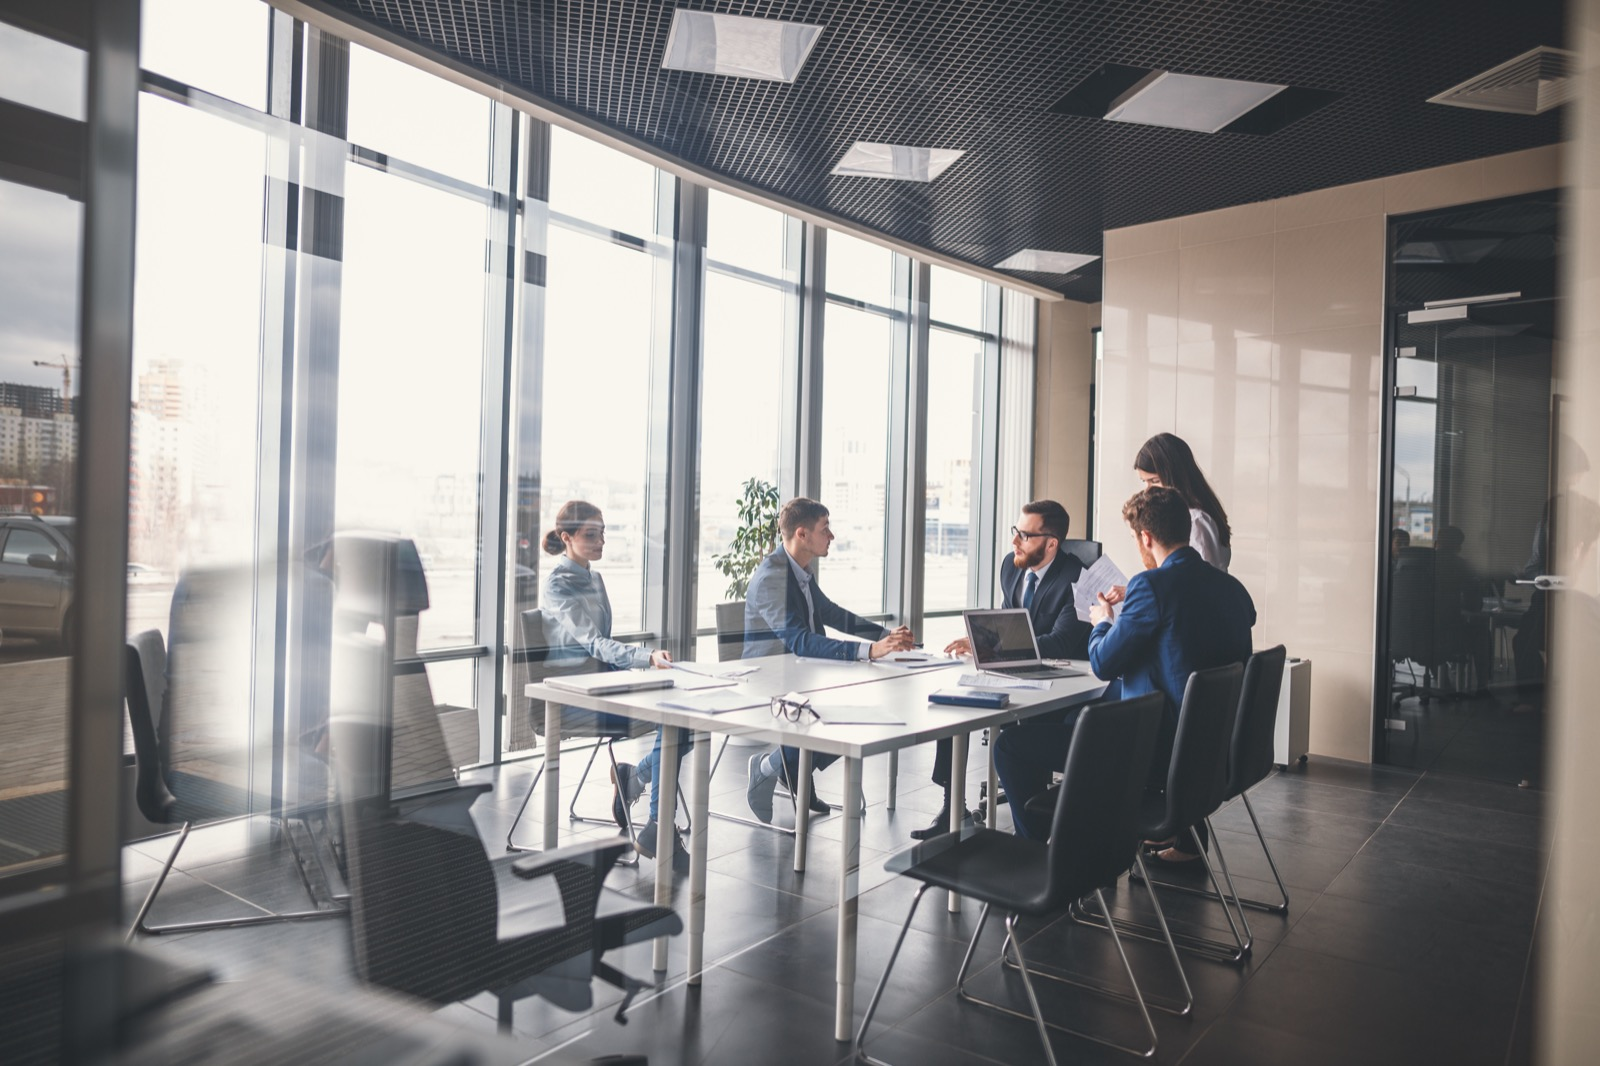
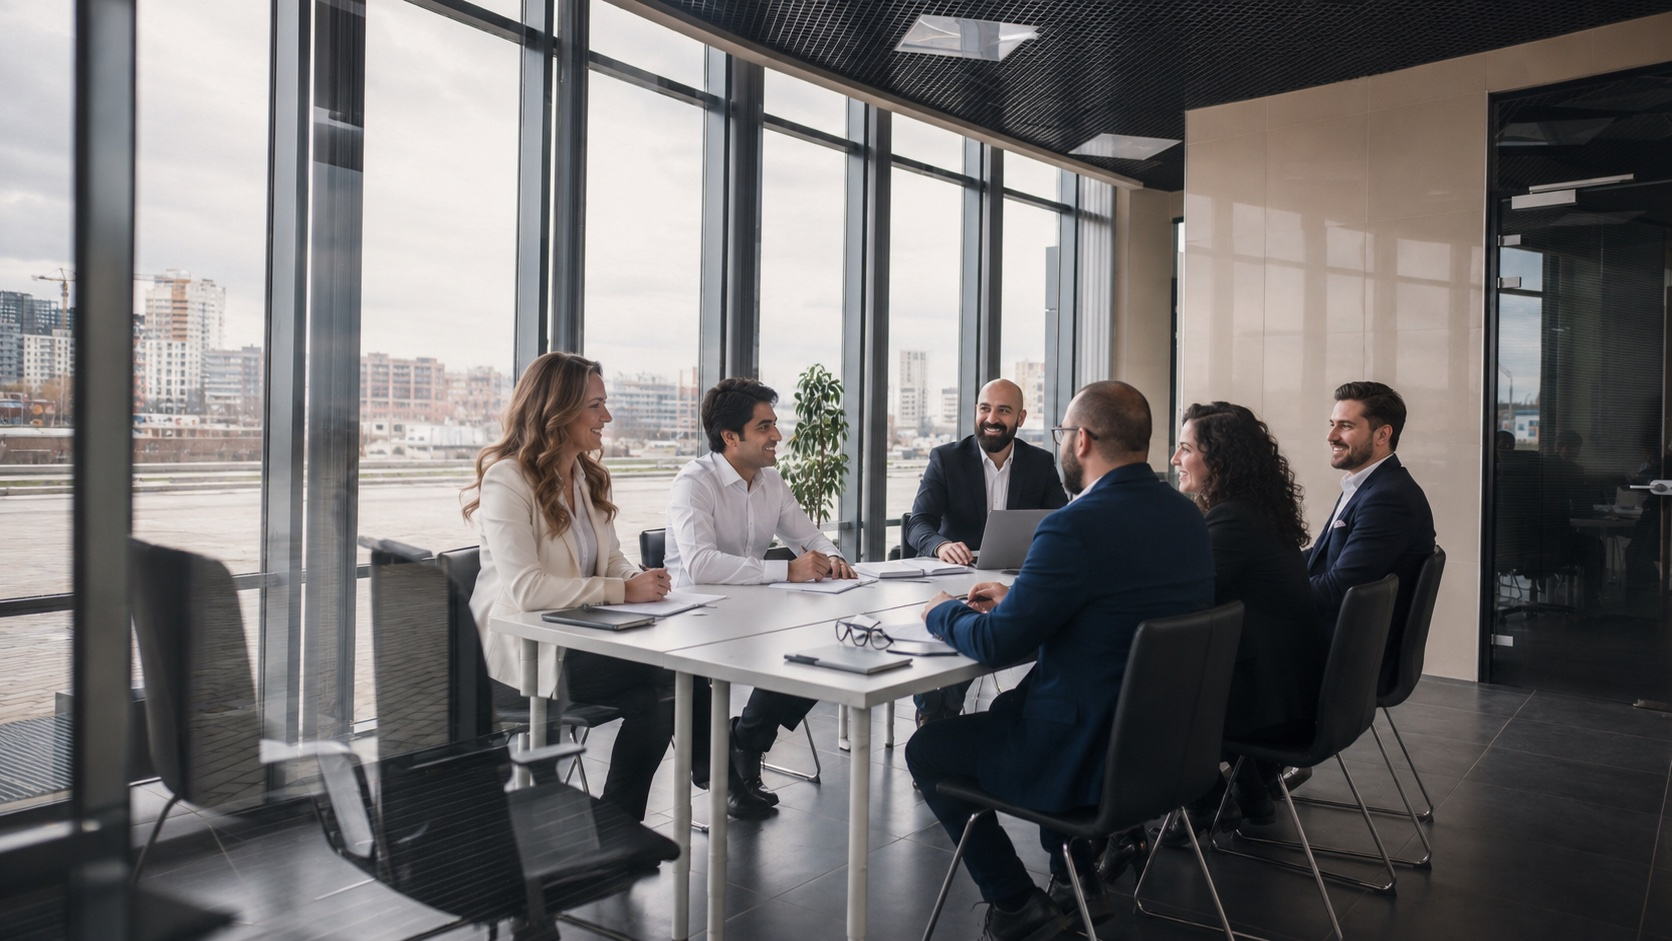
Redesign team section: Meet the Team heading, 3x2 grid, larger photos; new group photo

diff --git a/src/components/sections/About.tsx b/src/components/sections/About.tsx
@@ -2,7 +2,7 @@ import Container from '../ui/Container';
 import SectionHeading from '../ui/SectionHeading';
 import GradientText from '../ui/GradientText';
 import ScrollReveal from '../ui/ScrollReveal';
-import { ABOUT_SUBHEADING, ABOUT_BODY, TEAM_MEMBERS } from '../../data/constants';
+import { ABOUT_SUBHEADING, ABOUT_BODY, TEAM_SUBHEADING, TEAM_MEMBERS } from '../../data/constants';
 
 export default function About() {
   return (
@@ -24,9 +24,9 @@ export default function About() {
               alt="The AIify team"
               loading="lazy"
               decoding="async"
-              width={1600}
-              height={1200}
-              className="aspect-[4/3] w-full object-cover rounded-2xl border border-[var(--color-border-subtle)]"
+              width={1672}
+              height={941}
+              className="aspect-video w-full object-cover rounded-2xl border border-[var(--color-border-subtle)]"
             />
 
             {/* Copy */}
@@ -43,10 +43,18 @@ export default function About() {
 
         {/* Team Grid */}
         <ScrollReveal delay={0.2}>
-          <div className="flex flex-wrap justify-center gap-10 max-w-5xl mx-auto">
+          <div className="text-center mb-10 md:mb-14">
+            <h3 className="text-3xl md:text-4xl font-bold tracking-tight">
+              Meet the <GradientText>Team</GradientText>
+            </h3>
+            <p className="mt-4 text-lg md:text-xl text-[var(--color-text-muted)] max-w-2xl mx-auto">
+              {TEAM_SUBHEADING}
+            </p>
+          </div>
+          <div className="grid grid-cols-2 md:grid-cols-3 gap-x-6 gap-y-10 md:gap-x-10 md:gap-y-14 max-w-4xl mx-auto">
             {TEAM_MEMBERS.map((member) => (
-              <div key={member.name} className="flex flex-col items-center text-center w-40">
-                <div className="w-28 h-28 rounded-full overflow-hidden border border-[var(--color-border-subtle)] mb-4">
+              <div key={member.name} className="flex flex-col items-center text-center">
+                <div className="w-36 h-36 sm:w-40 sm:h-40 md:w-48 md:h-48 rounded-full overflow-hidden border border-[var(--color-border-subtle)] mb-5">
                   <img
                     src={member.image}
                     alt={member.name}
@@ -61,8 +69,8 @@ export default function About() {
                     className="w-full h-full object-cover"
                   />
                 </div>
-                <p className="font-bold text-[var(--color-text)]">{member.name}</p>
-                <p className="text-sm text-[var(--color-text-muted)]">{member.title}</p>
+                <p className="text-lg md:text-xl font-bold text-[var(--color-text)]">{member.name}</p>
+                <p className="mt-1 text-sm md:text-base text-[var(--color-text-muted)]">{member.title}</p>
               </div>
             ))}
           </div>

diff --git a/src/data/constants.ts b/src/data/constants.ts
@@ -50,6 +50,9 @@ export const ABOUT_SUBHEADING = "Built by Operators, for Operators";
 export const ABOUT_BODY =
   "We're operators who got tired of tools that don't work. We've spent years inside real businesses — building, breaking, and rebuilding systems until they actually run day-in, day-out. AIify doesn't hand you a deck and walk away. We get inside your operations, build the AI agents ourselves, and stay to make sure they keep working.";
 
+export const TEAM_SUBHEADING =
+  "We're proud of the people behind AIify — operators, builders, and problem-solvers who make sure your automation actually works.";
+
 export const TEAM_MEMBERS: TeamMember[] = [
   { name: "Joshua Pellicer", title: "Founder & CEO", image: "/images/team/joshua.jpg" },
   { name: "Darius Mirshahzadeh", title: "Chairman of the Board", image: "/images/team/darius.jpg" },